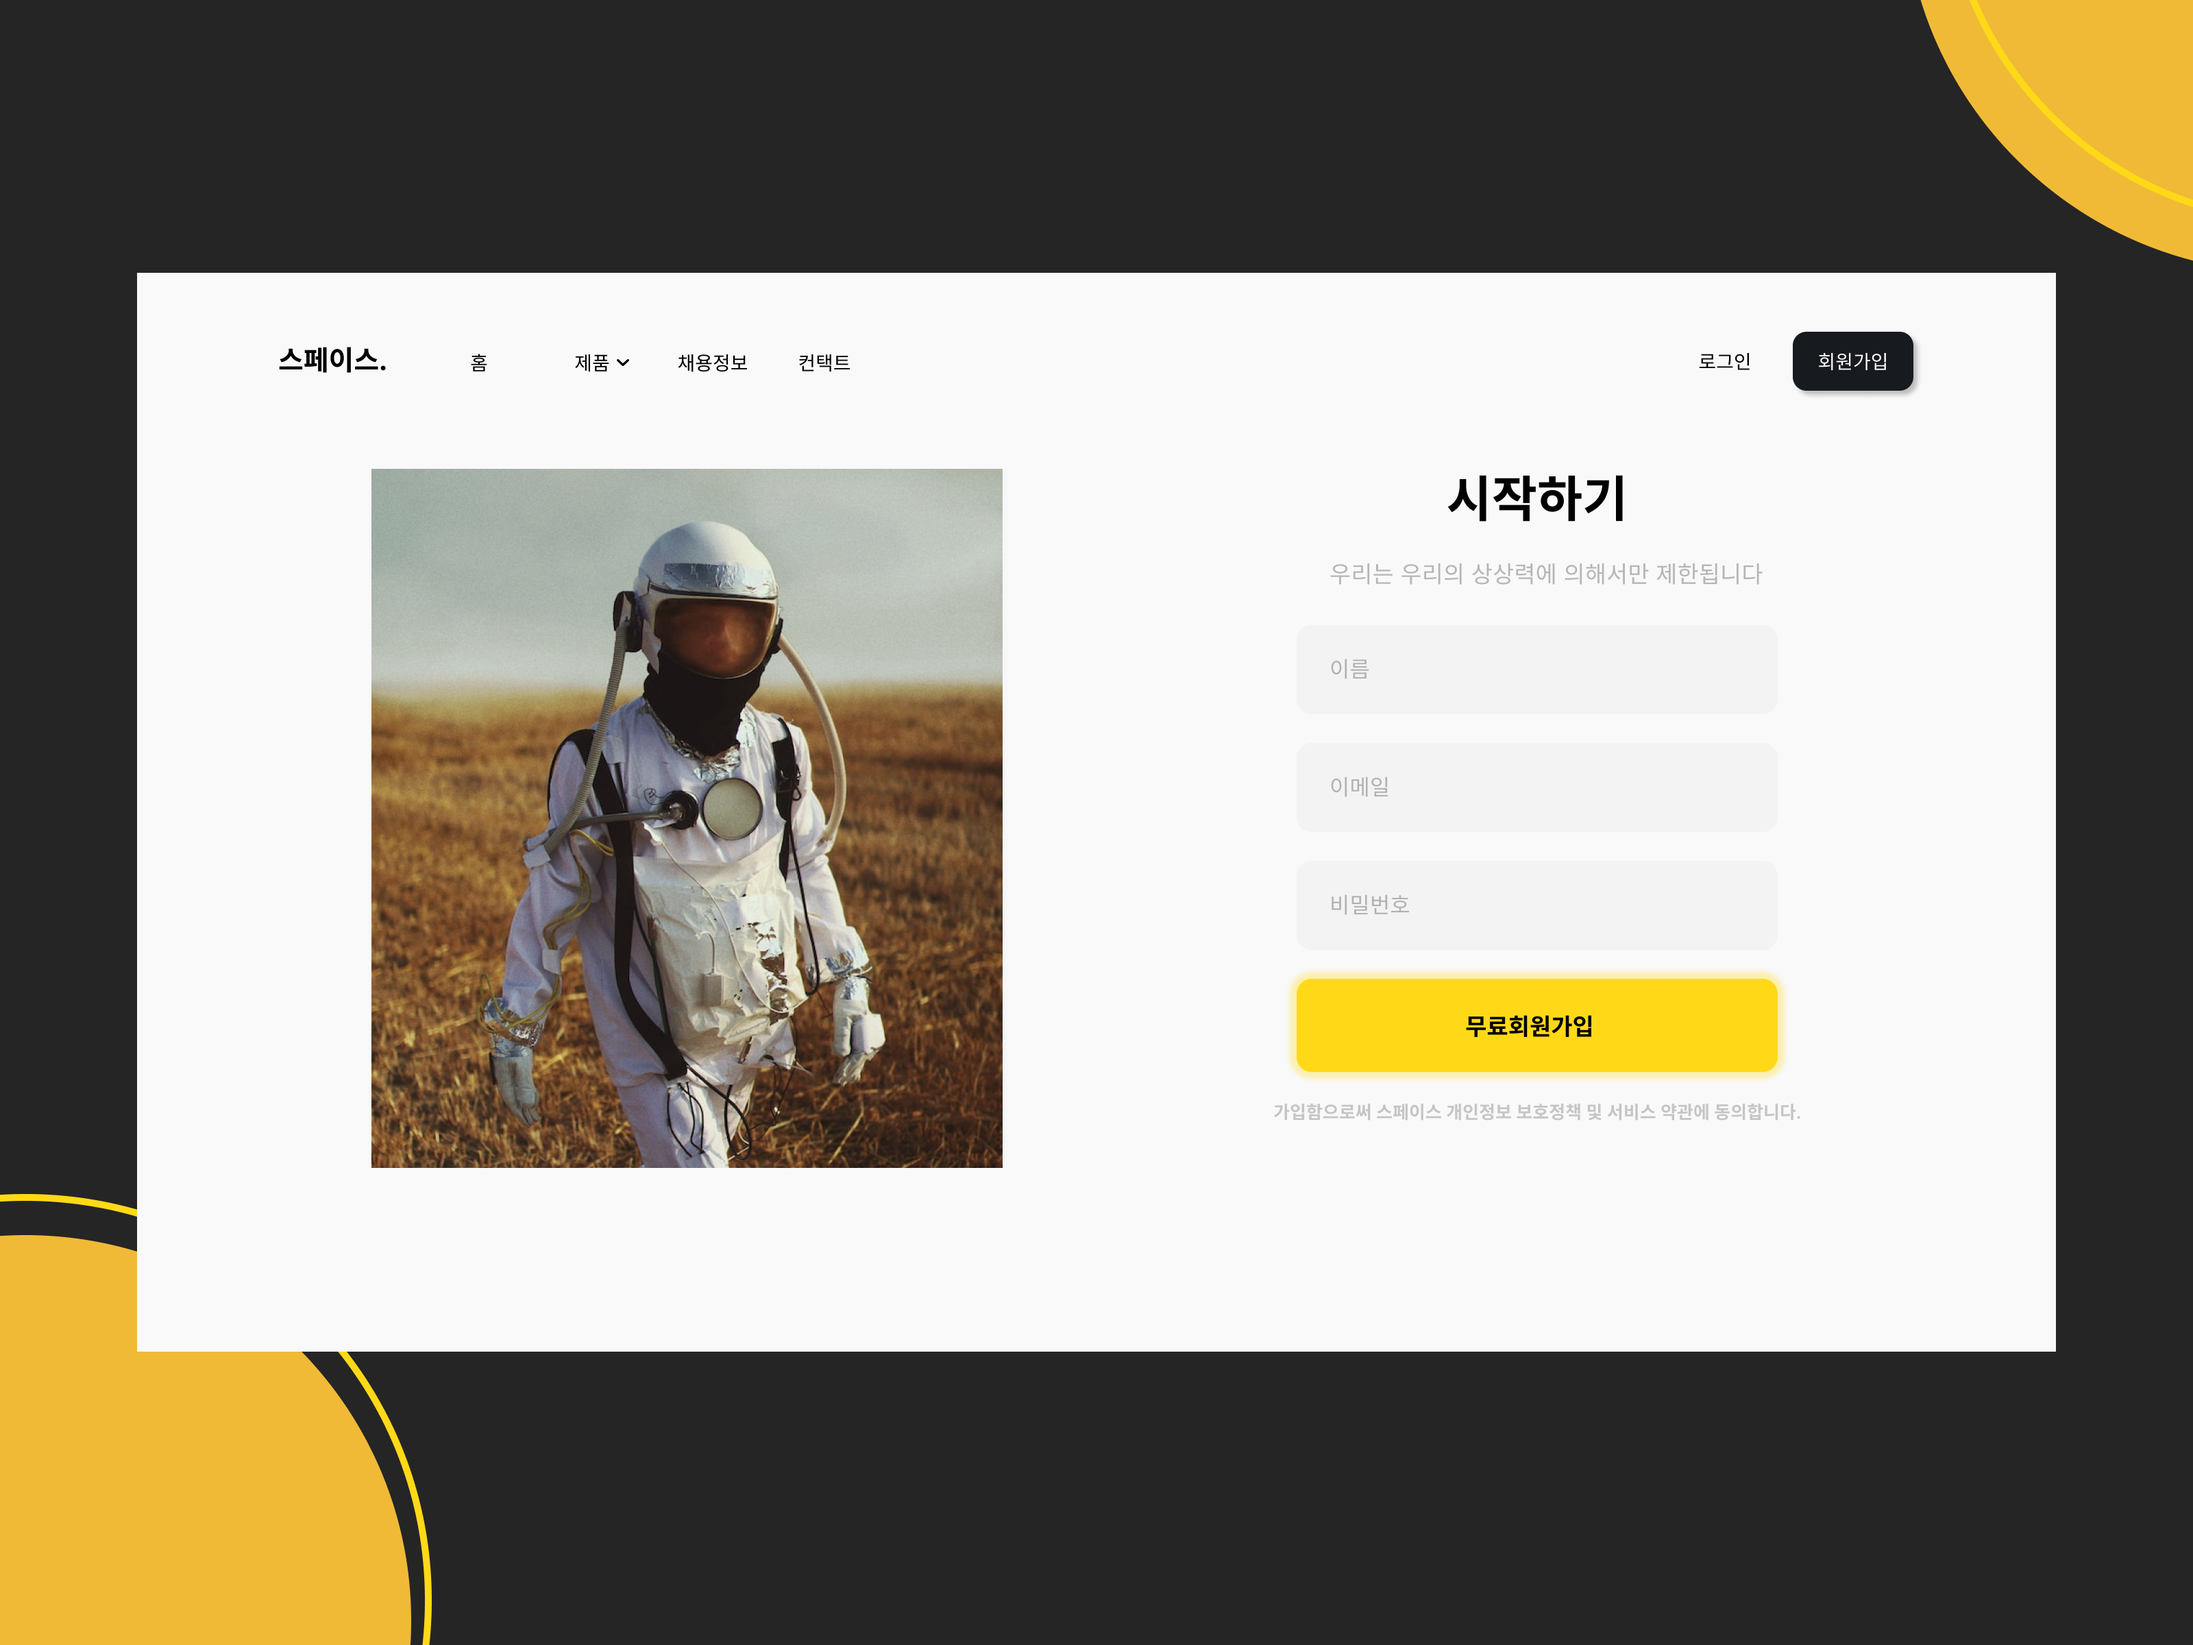
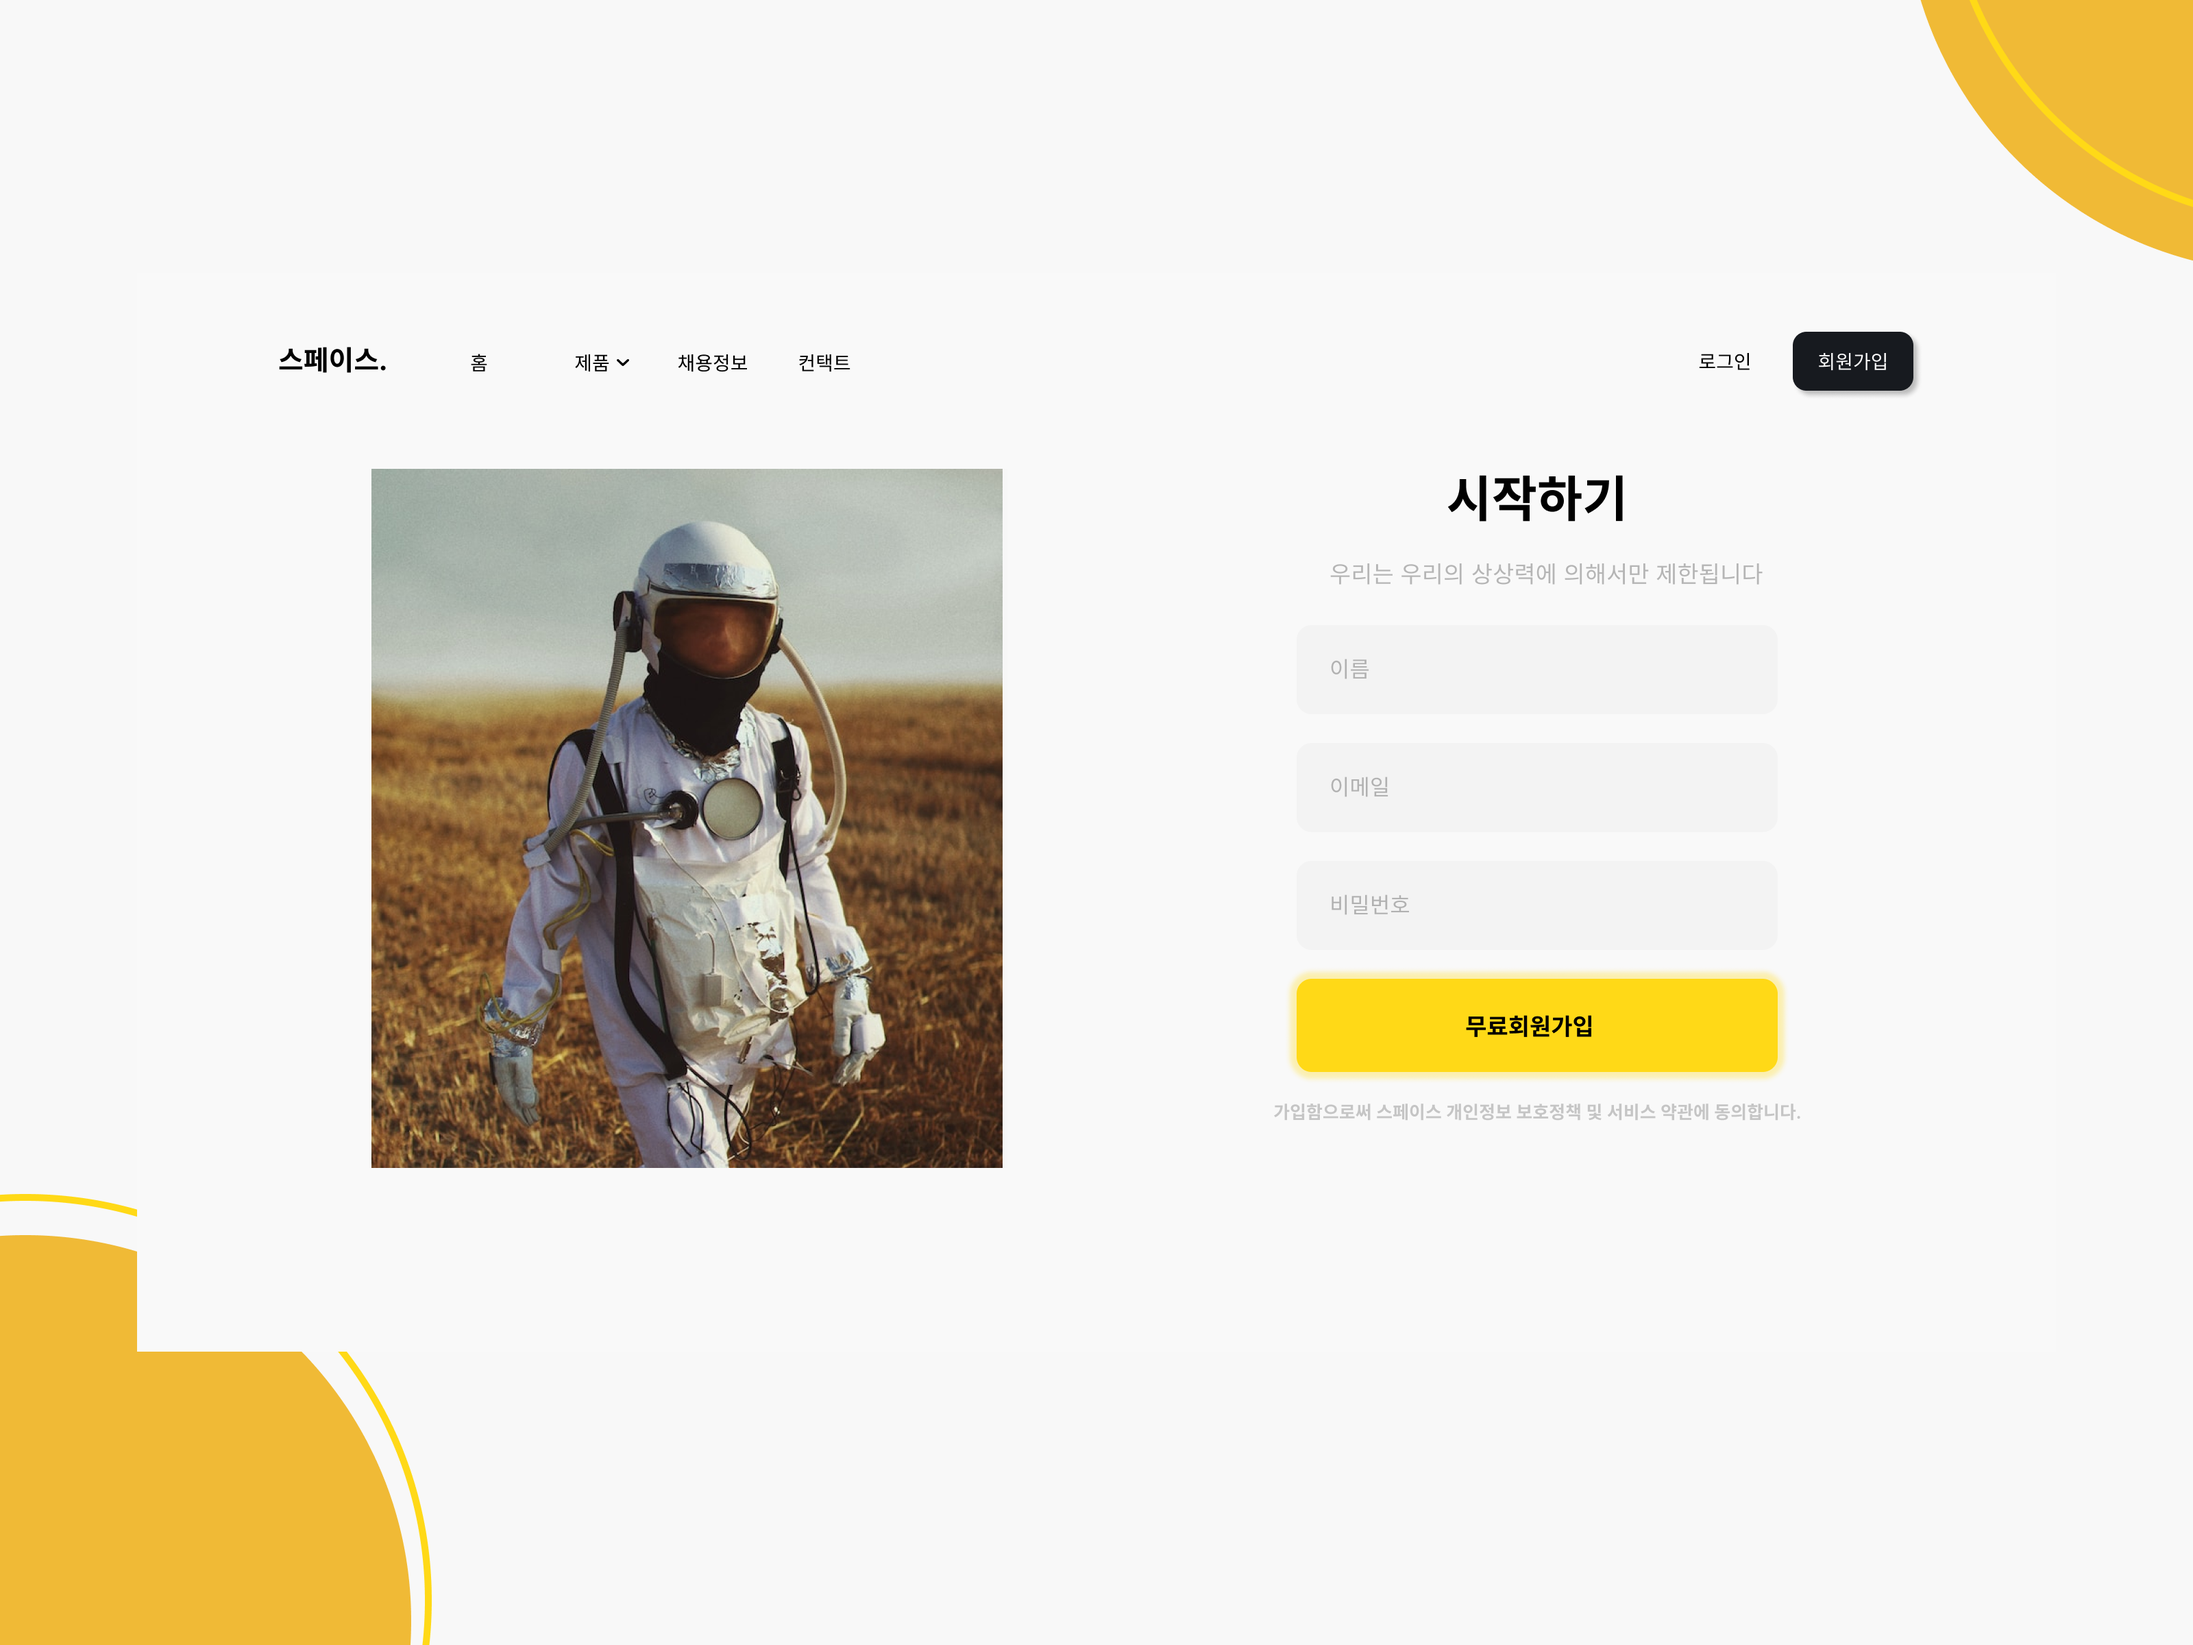
a

diff --git a/css/galaxy.css b/css/galaxy.css
@@ -16,7 +16,7 @@ a {
   position: fixed;
   top: 0;
   width: 100%;
-  height: 200px;
+  height: 100px;
   background-color: #000;
   color: #fff;
   z-index: 1;
@@ -24,7 +24,7 @@ a {
 
 .top .nav {
   position: fixed;
-  top: 85px;
+  top: 38px;
   left: 50%;
   transform: translateX(-50%);
   z-index: 1;
@@ -53,7 +53,7 @@ a {
   position: absolute;
   background-color: #ffb800;
   left: 0;
-  bottom: -3px;
+  bottom: -5px;
   width: 0;
   height: 3px;
   transition: 0.3s;
@@ -64,12 +64,21 @@ a {
   width: 100%;
 }
 
-.top .nav > ul > li:nth-child(3) > a {
-  border-bottom: 3px solid #ffb800;
+.top .nav > ul > li:nth-child(3)::after {
+  /* border-bottom: 3px solid #ffb800; */
+  content: '';
+  position: absolute;
+  background-color: #ffb800;
+  left: 0;
+  bottom: -5px;
+  width: 100%;
+  height: 3px;
+  /* transition: 0.3s; */
+  z-index: 1;
 }
 
 body {
-  background-color: #000;
+  background-color: #fff;
 }
 
 .back {
@@ -96,7 +105,7 @@ body {
   left: 10.41%;
   font-size: 16px;
   font-weight: 400;
-  color: #fff;
+  color: #000;
 }
 
 .intro > .link {
@@ -107,16 +116,42 @@ body {
   height: 50px;
   border-radius: 10px;
   background-color: #fff;
+  border: 1px solid #000;
   overflow: hidden;
 }
 
+.intro > .link:hover {
+  position: absolute;
+  top: 200px;
+  left: 76.56%;
+  width: 7.81%;
+  height: 50px;
+  border-radius: 10px;
+  background-color: #000;
+  border: 1px solid #000;
+  overflow: hidden;
+  transition: 0.5s;
+}
+
 .intro > .link > a {
+  color: #000;
   height: 50px;
   display: block;
   font-size: 16px;
   font-weight: 400;
   line-height: 50px;
   text-align: center;
+}
+
+.intro > .link > a:hover {
+  color: #fff;
+  height: 50px;
+  display: block;
+  font-size: 16px;
+  font-weight: 400;
+  line-height: 50px;
+  text-align: center;
+  transition: 0.5s;
 }
 
 .intro > .github > a > img {

diff --git a/css/busan.css b/css/busan.css
@@ -134,6 +134,7 @@ body {
 }
 
 .intro > .link > a {
+  color: #000;
   height: 50px;
   display: block;
   font-size: 16px;

diff --git a/css/shoes.css b/css/shoes.css
@@ -140,6 +140,7 @@ body {
 }
 
 .intro > .link > a {
+  color: #000;
   height: 50px;
   display: block;
   font-size: 16px;
